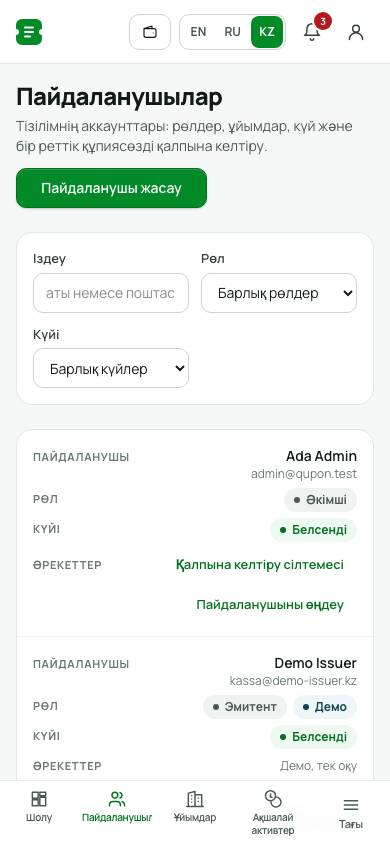
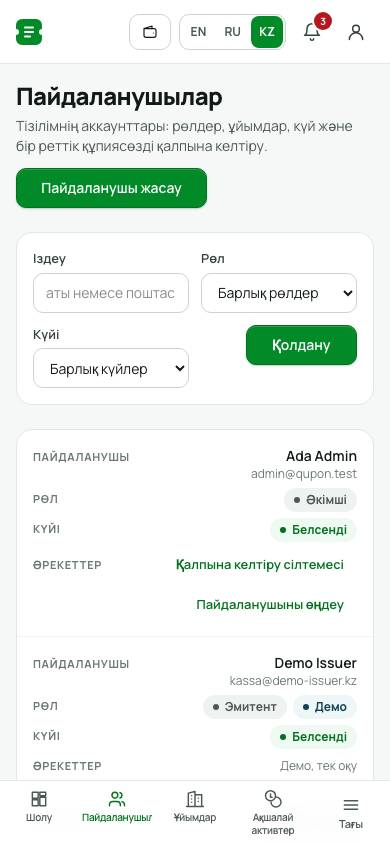
fix(web): design pre-flight round 1 — admin and print reports
- Apply buttons on /admin/audit and /admin/users used the non-existent
  bg-p600 token (invisible); both now use the shared <Button> primary
  (g600) — verified computed background rgb(2,138,41) at 390.
- Phone scroll hint on print reports bumped to text-[11px] text-n500
  (AA on white cards per docs/design/language.md §4).
- Payouts <th> drops whitespace-nowrap (align-bottom instead) so long
  ru/kk headers wrap instead of clipping the card at 1440; ru 1440
  table now fits its container exactly.
- Re-shot /admin/audit, /admin/users, /print/payouts into
  reports/design/preflight/after (SWEEP_ROUTES filter).

task: 91546

Changed region(s): [[0.6154, 0.3697, 0.9231, 0.4621]]

diff --git a/apps/web/src/app/(print)/print/[report]/page.tsx b/apps/web/src/app/(print)/print/[report]/page.tsx
@@ -251,7 +251,7 @@ export default async function PrintReportPage({
         )}
         {/* Wide report tables scroll inside their own box on phones (§5.8: no page-level sideways scroll);
             the hint below says so, because a clipped table reads as broken (pre-flight #7). */}
-        <p className="mt-4 text-[10px] text-n400 sm:hidden print:hidden">
+        <p className="mt-4 text-[11px] text-n500 sm:hidden print:hidden">
           {t("print.scrollHint")}
         </p>
         <div className="mt-2 overflow-x-auto print:mt-6 print:overflow-visible">
@@ -291,7 +291,7 @@ export default async function PrintReportPage({
                     ].map((h) => (
                       <th
                         key={h}
-                        className="px-1 py-1.5 font-semibold whitespace-nowrap"
+                        className="px-1 py-1.5 font-semibold align-bottom"
                       >
                         {h}
                       </th>

diff --git a/apps/web/src/app/(cabinet)/admin/audit/page.tsx b/apps/web/src/app/(cabinet)/admin/audit/page.tsx
@@ -1,5 +1,6 @@
 import { getLocale, getTranslations } from "next-intl/server";
 import { Badge } from "@/components/ui/Badge";
+import { Button } from "@/components/ui/Button";
 import { Card } from "@/components/ui/Card";
 import { DataTable, type Column } from "@/components/ui/DataTable";
 import { boFetch } from "@/lib/bo";
@@ -214,12 +215,9 @@ export default async function AdminAuditPage({
                 <option value="false">{t("resultFailed")}</option>
               </select>
             </div>
-            <button
-              type="submit"
-              className="inline-flex h-10 shrink-0 items-center rounded-btn bg-p600 px-4 text-sm font-semibold text-white hover:bg-p700"
-            >
+            <Button type="submit" className="shrink-0">
               {t("apply")}
-            </button>
+            </Button>
           </div>
         </form>
       </Card>

diff --git a/apps/web/src/app/(cabinet)/admin/users/page.tsx b/apps/web/src/app/(cabinet)/admin/users/page.tsx
@@ -1,5 +1,6 @@
 import { getTranslations } from "next-intl/server";
 import { Badge } from "@/components/ui/Badge";
+import { Button } from "@/components/ui/Button";
 import { Card } from "@/components/ui/Card";
 import { DataTable, type Column } from "@/components/ui/DataTable";
 import { EmptyState } from "@/components/ui/EmptyState";
@@ -185,12 +186,7 @@ export default async function AdminUsersPage({
             </select>
           </div>
           <div className="flex justify-end">
-            <button
-              type="submit"
-              className="inline-flex h-10 items-center rounded-btn bg-p600 px-4 text-sm font-semibold text-white hover:bg-p700"
-            >
-              {t("apply")}
-            </button>
+            <Button type="submit">{t("apply")}</Button>
           </div>
         </form>
       </Card>

diff --git a/reports/design/preflight/fixes.md b/reports/design/preflight/fixes.md
@@ -12,3 +12,9 @@ One line per fixed row. Task 91546: rows 2, 7, 8, 9, 10, 12, 20, 24, 25, 32.
 - #24 /admin/series — "KASE ticker" label uses the Select label typography (13 px semibold n700), baselines match (apps/web/src/app/(cabinet)/admin/series/SeriesRowControls.tsx)
 - #25 /admin — KPI grid `auto-rows-fr` (equal row heights), kk hint reworded to "тексеру: SIMULATED" (apps/web/src/app/(cabinet)/admin/page.tsx, apps/web/messages/kk/admin.json)
 - #32 /admin/system — header already used `formatDateTime(…, locale)`; the mismatch came from the audit page's locale-less call, now locale-aware (shared with #17, task 91548) (apps/web/src/app/(cabinet)/admin/audit/page.tsx)
+
+## Round 1 review fixes (2026-10-10)
+
+- #10 /admin/audit, /admin/users — Apply used non-existent `bg-p600` (invisible); both filters now use the shared `<Button>` primary (g600) — verified computed bg `rgb(2,138,41)` at 390 (apps/web/src/app/(cabinet)/admin/{audit,users}/page.tsx)
+- #7 /print/* — scroll hint bumped to `text-[11px] text-n500` (AA on white per language.md §4) (apps/web/src/app/(print)/print/[report]/page.tsx)
+- #7 /print/payouts — payouts `<th>` lost `whitespace-nowrap` (`align-bottom` instead), long ru/kk headers wrap to two lines instead of clipping at the card edge; ru 1440 table now exactly fits the card (apps/web/src/app/(print)/print/[report]/page.tsx)

diff --git a/reports/worklog/91546.md b/reports/worklog/91546.md
@@ -5,3 +5,4 @@
 - sweep.spec.ts gained a `SWEEP_ROUTES` comma-list filter and an append-merge for the after/index.md so parallel re-shoots don't clobber each other; re-shot the 8 touched routes (48 shots) into reports/design/preflight/after.
 - Watch: 4 e2e specs (admin-overview, admin-series-audit ×2, reports print CSV link) fail on this branch *before* my changes too — pre-existing, likely from the showcase-seed merge; not touched here.
 - Shared scope: #11 (issuer nav) is covered by the same CabinetShell fix; #17's remaining audit-scope items belong to 91548.
+- Round 1 review: invisible `bg-p600` Apply buttons → shared `<Button>` (verified computed bg rgb(2,138,41) via throwaway playwright check), hint → `text-[11px] text-n500`, payouts `<th>` drops nowrap (ru 1440 table fits card exactly); re-shot admin/audit, admin/users, print/payouts.
